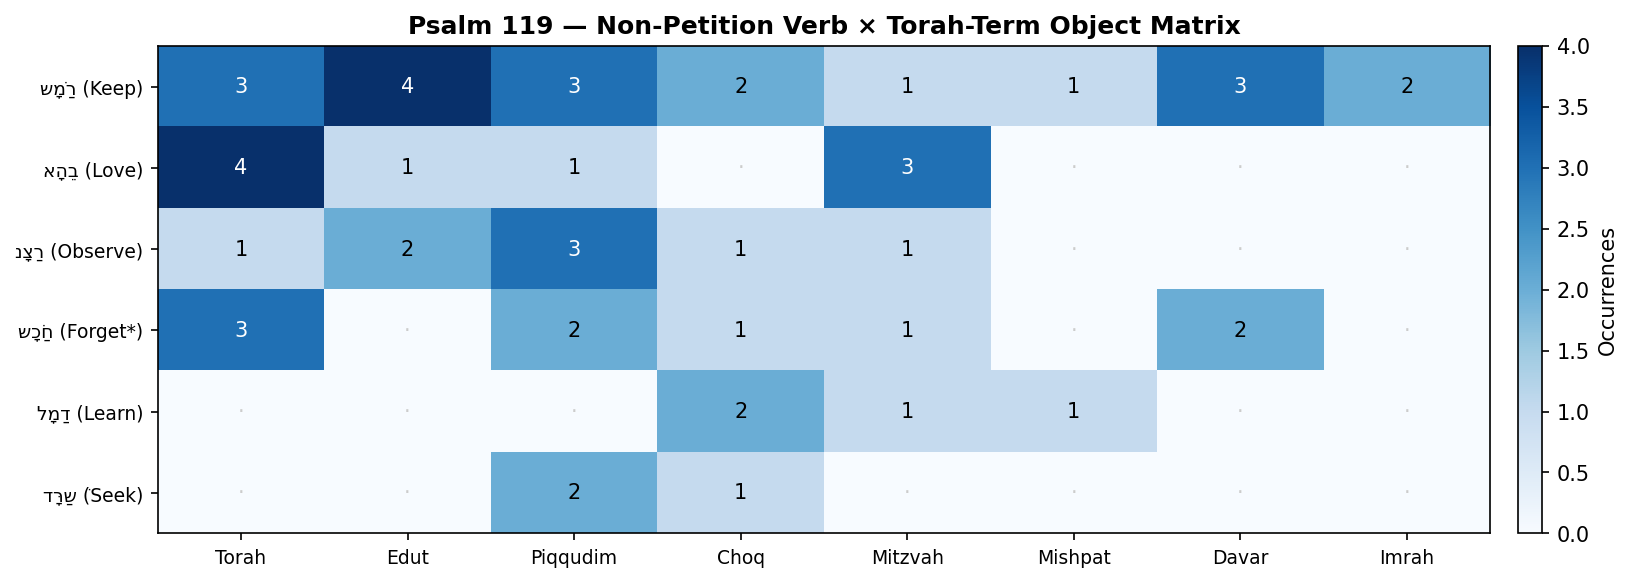
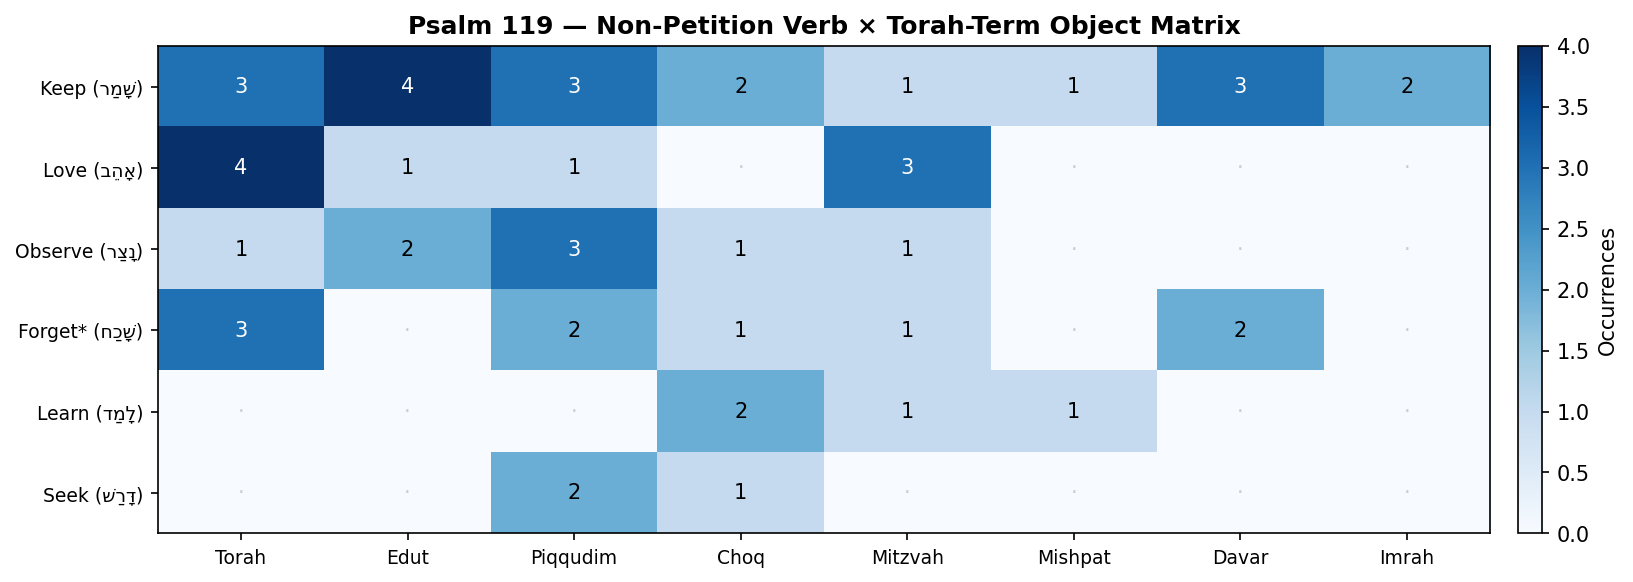
Fix Psalm 119 report: correct Torah frequency wording and bidi chart rendering
- Replace "nearly every other verse" with "roughly once every 7 verses" for
  Torah's 25/176 appearances (closes #390)
- Apply get_display() bidi processing to all Hebrew chart labels so אִמְרָה
  and other terms render left-to-right correctly instead of backwards
- Also fix verb-torah-matrix y-axis to put English label first (LTR-safe)

diff --git a/scripts/build_psalm119_report.py b/scripts/build_psalm119_report.py
@@ -14,6 +14,7 @@ from typing import Any, Dict, List, Optional
 import matplotlib
 matplotlib.use('Agg')
 import matplotlib.pyplot as plt
+from bidi.algorithm import get_display
 import numpy as np
 import pandas as pd
 
@@ -406,7 +407,8 @@ def save_chart(fig: Any, name: str) -> None:
 
 # Chart 1: Word term frequencies (horizontal bar)
 def chart_term_frequencies() -> None:
-    labels = freq_df['Term'] + '\n(' + freq_df['Hebrew'] + ')'
+    labels = [get_display(t + '\n(' + h + ')')
+              for t, h in zip(freq_df['Term'], freq_df['Hebrew'])]
     vals = freq_df['Verses'].tolist()
     fig, ax = plt.subplots(figsize=(9, 5))
     bars = ax.barh(labels[::-1], vals[::-1],
@@ -449,7 +451,7 @@ def chart_heatmap() -> None:
     )
     ax.set_yticks(range(n_terms))
     ax.set_yticklabels(
-        [f'{t[3]} ({t[2]})' for t in WORD_TERMS], fontsize=9
+        [get_display(f'{t[3]} ({t[2]})') for t in WORD_TERMS], fontsize=9
     )
     ax.set_title('Psalm 119 — Word Vocabulary by Stanza', fontsize=12, fontweight='bold')
     fig.colorbar(im, ax=ax, fraction=0.02, pad=0.02, label='Occurrences')
@@ -515,7 +517,7 @@ def chart_verb_torah_matrix() -> None:
     ax.set_xticklabels(TORAH_TERM_ORDER, fontsize=9)
     ax.set_yticks(range(n_verbs))
     ax.set_yticklabels(
-        [f'{KEY_VERB_LABELS[s][0]} ({KEY_VERB_LABELS[s][1]})' for s in strongs_order],
+        [get_display(f'{KEY_VERB_LABELS[s][1]} ({KEY_VERB_LABELS[s][0]})') for s in strongs_order],
         fontsize=9
     )
     ax.set_title('Psalm 119 — Non-Petition Verb × Torah-Term Object Matrix',
@@ -732,6 +734,8 @@ def shamar_object_list() -> str:
 n_petition_vv = len(set(petition_verses))
 most_common_term = freq_df.iloc[0]['Term']
 most_common_count = freq_df.iloc[0]['Verses']
+_torah_count = int(freq_df[freq_df['Term'] == 'Torah']['Verses'].iloc[0])
+_torah_interval = round(176 / _torah_count)
 
 # ── Build report ───────────────────────────────────────────────────────────────
 
@@ -764,8 +768,8 @@ recurring emotional themes.
 ## Key Observations
 
 1. **Torah** (*{WORD_TERMS[0][2]}*) is the most frequent Word term, appearing in
-   {freq_df[freq_df['Term'] == 'Torah']['Verses'].iloc[0]} of the psalm's 176 verses —
-   nearly every other verse on average.
+   {_torah_count} of the psalm's 176 verses —
+   roughly once every {_torah_interval} verses on average.
 2. **{n_petition_vv} verses** (out of 176) contain at least one petition to God.
    The most repeated single verb is *ḥayyenî* ("revive / preserve me alive") — 9 times —
    revealing the psalmist's deepest felt need as spiritual life from God.

diff --git a/output/reports/ot/survey/psalm-119/psalm-119-report.md b/output/reports/ot/survey/psalm-119/psalm-119-report.md
@@ -27,7 +27,7 @@ recurring emotional themes.
 
 1. **Torah** (*תּוֹרָה*) is the most frequent Word term, appearing in
    25 of the psalm's 176 verses —
-   nearly every other verse on average.
+   roughly once every 7 verses on average.
 2. **58 verses** (out of 176) contain at least one petition to God.
    The most repeated single verb is *ḥayyenî* ("revive / preserve me alive") — 9 times —
    revealing the psalmist's deepest felt need as spiritual life from God.
